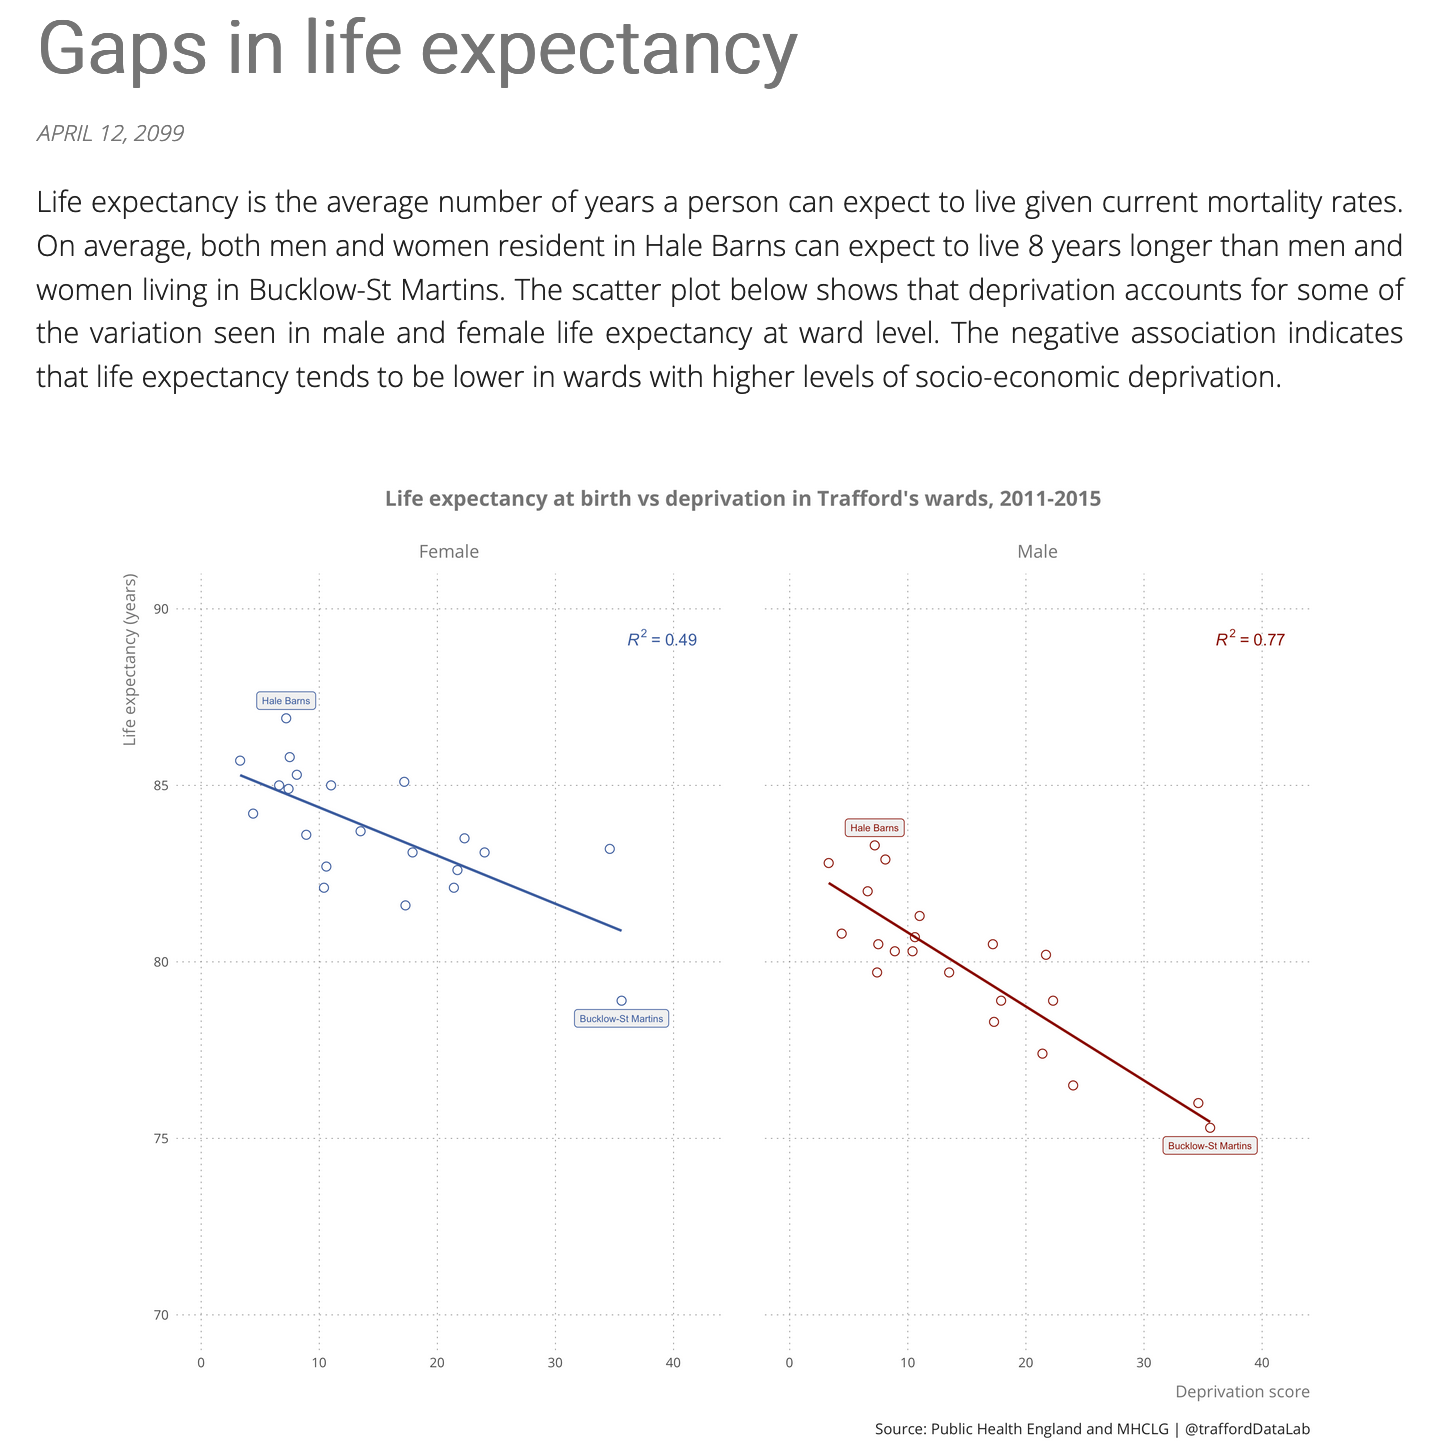
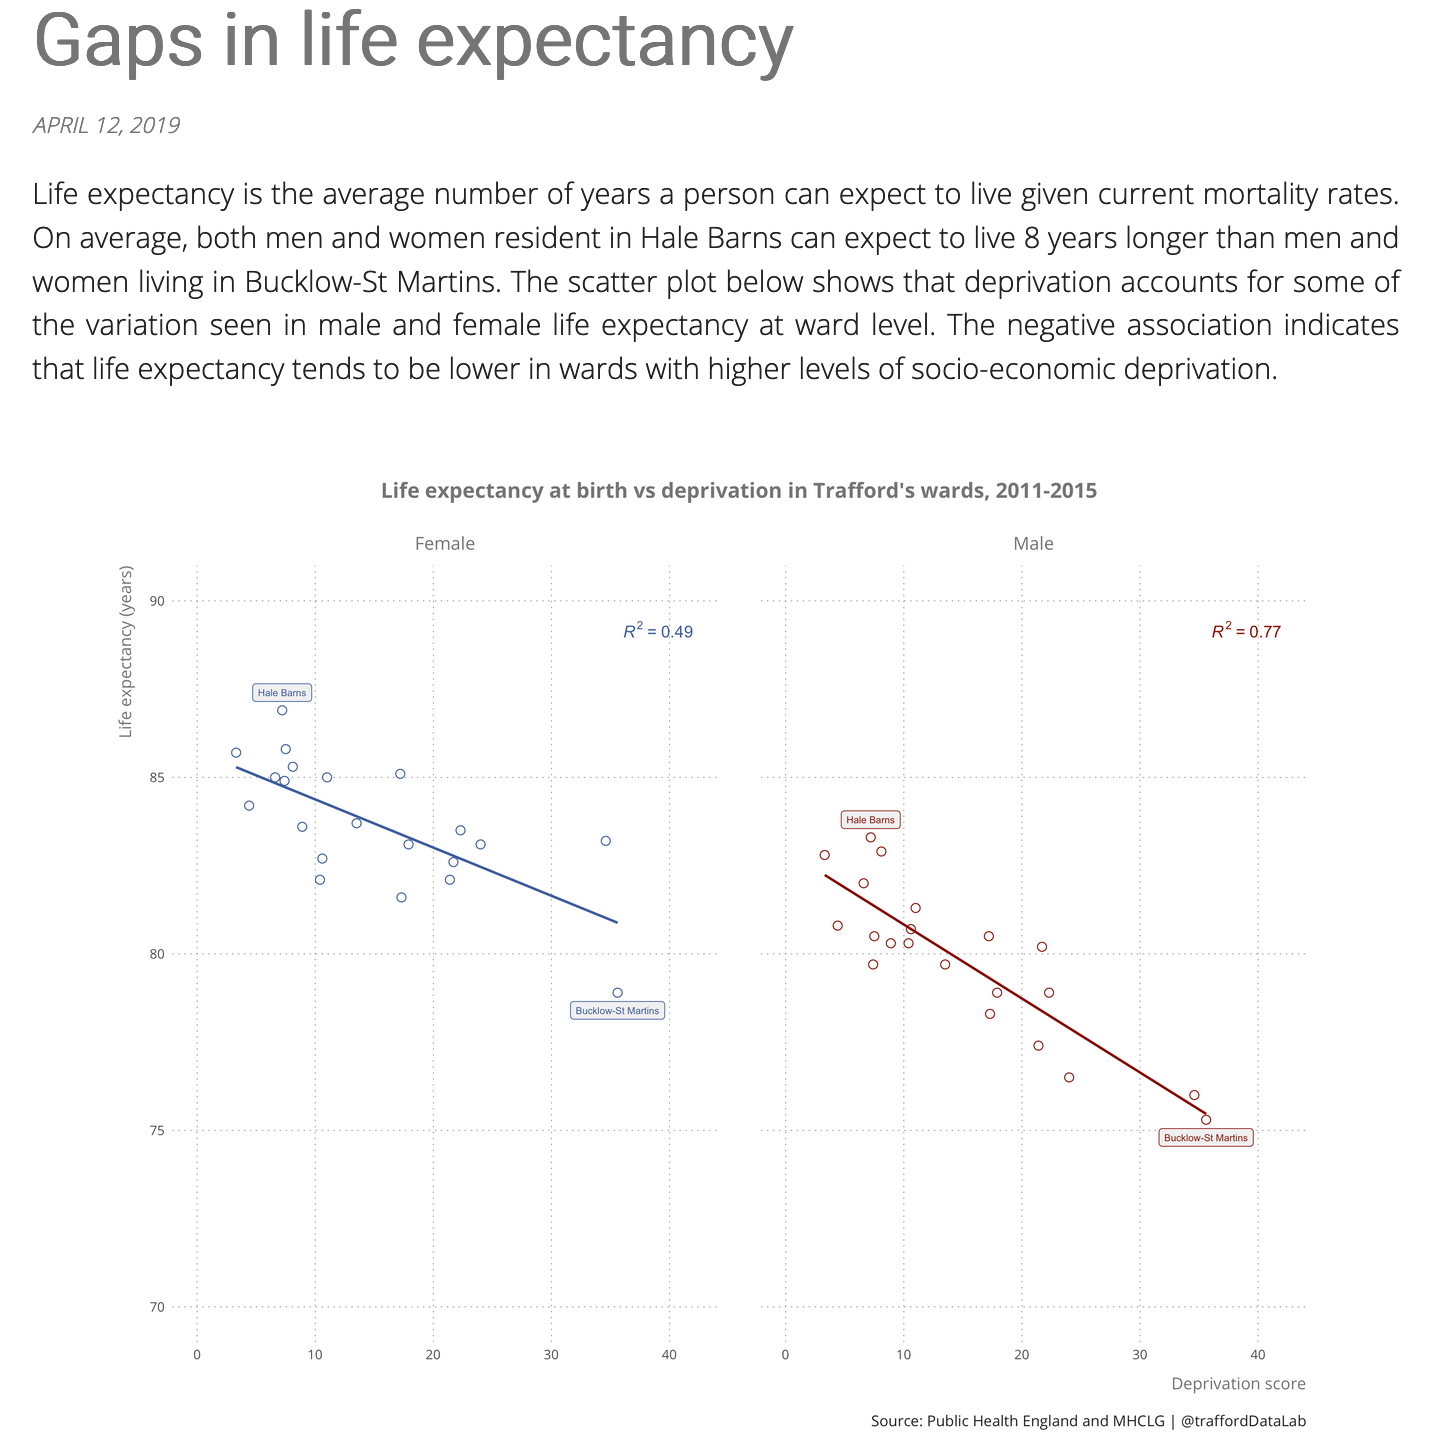
Corrected today's date

diff --git a/2019-04-12-gaps-in-life-expectancy/index.html b/2019-04-12-gaps-in-life-expectancy/index.html
@@ -16,7 +16,7 @@
         <article>
             <header>
                 <h1>Gaps in life expectancy</h1>
-                <time datetime="2019-04-12">APRIL 12, 2099</time>
+                <time datetime="2019-04-12">APRIL 12, 2019</time>
             </header>
 
             <p>
